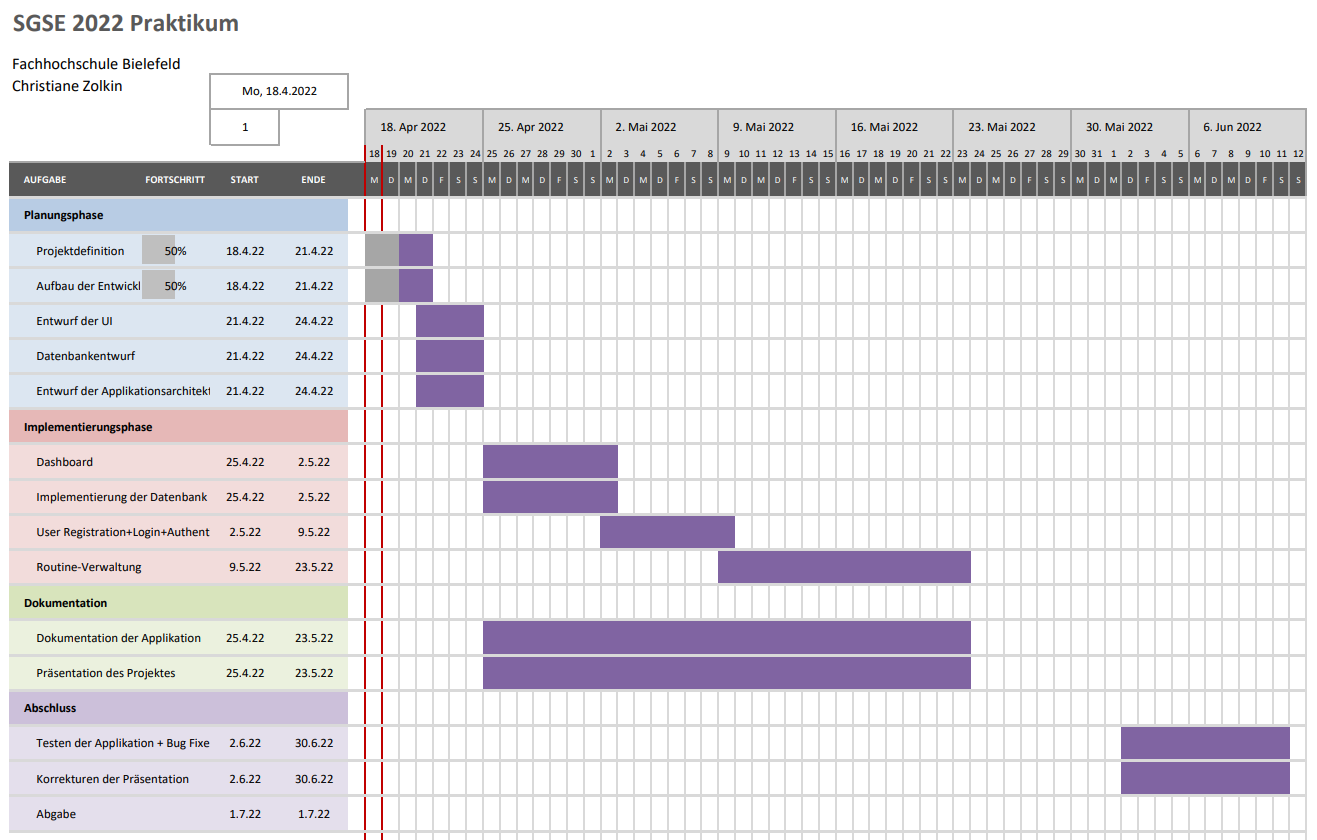
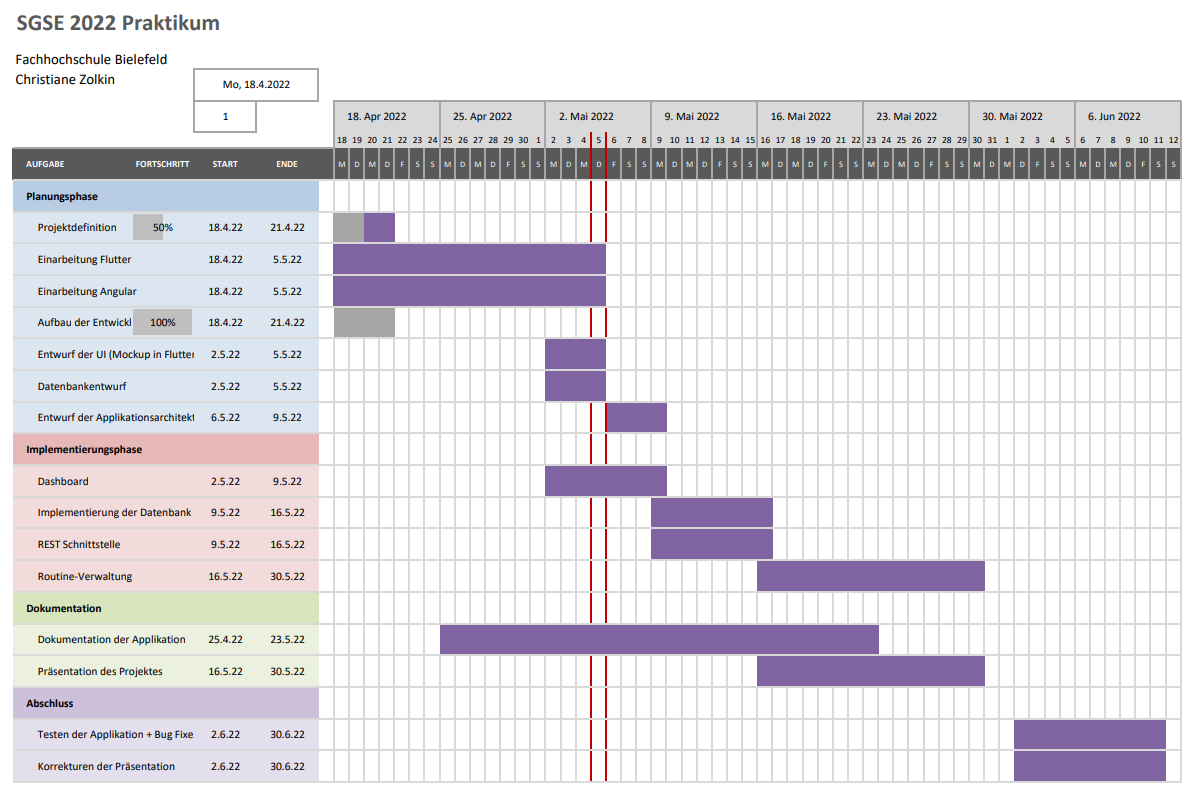
Github Repo für Praktikum erstellt; Gantt Diagramm aktualisiert

diff --git a/chapter05/index.md b/chapter05/index.md
@@ -130,6 +130,22 @@ Um das Verhalten eines laufenden Systems bei bestimmten Stimuli zu illustrieren,
 
 ### Datengesteuerte (Data-Driven) Modellierung
 
+Mithilfe von datengesteuerten Modellen können Abläufe der Verarbeitung der eingehenden Daten bis zu deren Ausgabe visualisiert werden. Dadurch können schnell Anforderungen identifiziert werden, da die gesamte Sequenz der Prozessaktivitäten abgebildet wird.
+
+Datengesteuerte Modelle waren bereits in den 1970er Jahren verbreitet, was sie zu einer der ersten grafischen Modelle macht, die in der Softwaremodellierung zum Einsatz kamen. Sogenannte *Data-Flow-Diagrams* (DFDs) stellten dabei einfache und intuitive Abbildungen dar, um den Datenfluss in Prozessen für alle Stakeholder verständlich erklären zu können. In UML können DFDs unter anderem als Aktivitätsdiagramm mithilfe der gegebenen Elemente umgesetzt werden:
+
+
+
+| Element               | Bedeutung                  |
+| --------------------- | -------------------------- |
+| Abgerundetes Rechteck | Aktivität (Prozessschritt) |
+| Rechteck              | Objekt (Daten)             |
+| Pfeil                 | Datenfluss                 |
+
+
+
+Doch auch mit Sequenzdiagrammen können DFDs dargestellt werden. Werden die Nachrichten zwischen Objekten ausschließlich von links nach rechts überliefert, wird so die sequentielle Abfolge des Datenflusses illustriert (siehe Abbildung).
+
 ![Behaviour_ActivityModel](C:\Users\Zolkin\Documents\Master Studium Informatik\1. Semester\Spezielle Gebiete zum Softwareengineering\SGSE22\chapter05\img\Behaviour_ActivityModel.png)
 
 ![Behaviour_SequenceDiagram](C:\Users\Zolkin\Documents\Master Studium Informatik\1. Semester\Spezielle Gebiete zum Softwareengineering\SGSE22\chapter05\img\Behaviour_SequenceDiagram.png)

diff --git a/praktikum/zolkin/index.md b/praktikum/zolkin/index.md
@@ -34,6 +34,12 @@ Neben der Entwickler-Erfahrung wird außerdem die Performanz der Applikation, un
 
 
 
+### "Routined" Web Application
+
+Link zum Github-Repository:
+
+https://github.com/ChrisZol/RoutinedApp.git
+
 ### Frontend
 
 
